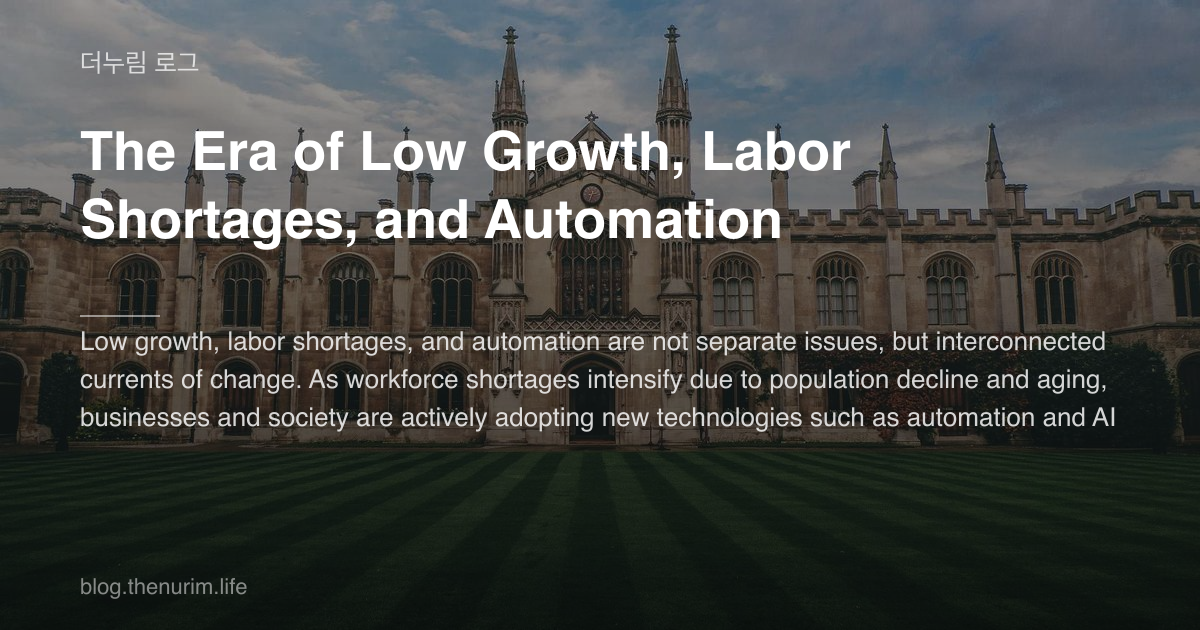
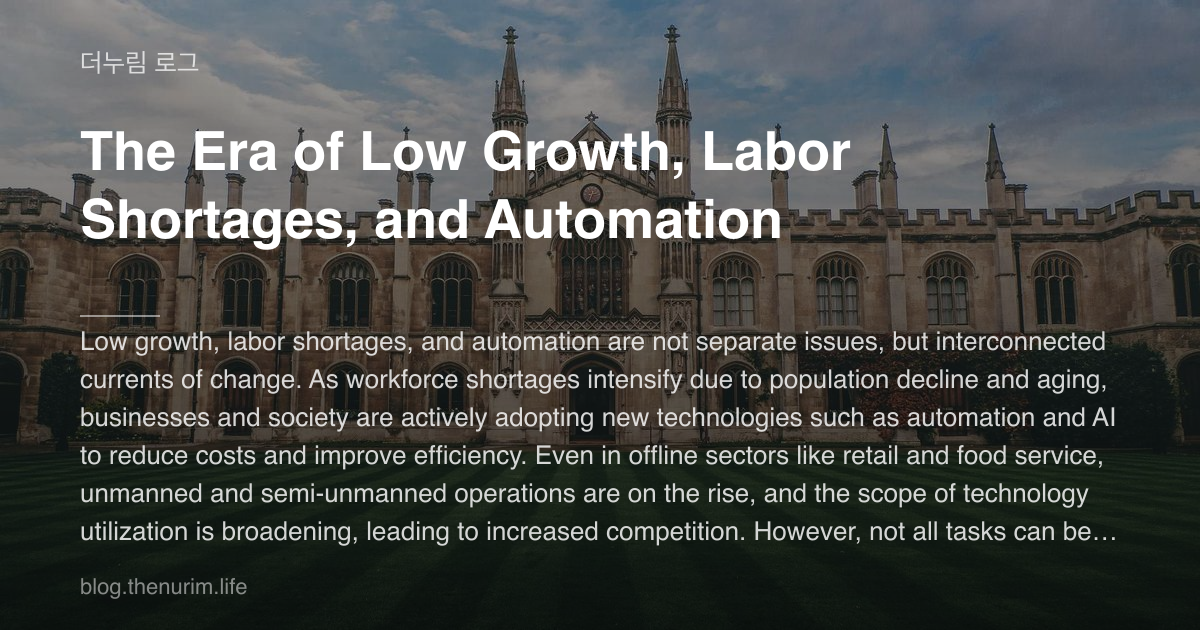
fix: preview image에 요약 글 더 표시.

Changed region(s): [[0.0617, 0.6937, 0.925, 0.8746]]

diff --git a/scripts/generate-og-images.js b/scripts/generate-og-images.js
@@ -129,12 +129,25 @@ async function generateOGImage(slug, lang, title, summary) {
   if (summary) {
     ctx.fillStyle = 'rgba(255,255,255,0.82)';
     ctx.font = `26px sans-serif`;
-    const summaryLines = wrapText(ctx, summary, CONTENT_WIDTH).slice(0, 3);
-    for (const line of summaryLines) {
-      if (y > OG_HEIGHT - 50) break;
-      ctx.fillText(line, PADDING, y);
+    const MAX_LINES = 6;
+    const allLines = wrapText(ctx, summary, CONTENT_WIDTH);
+    const summaryLines = allLines.slice(0, MAX_LINES);
+    const needsEllipsis = allLines.length > MAX_LINES;
+    summaryLines.forEach((line, i) => {
+      if (y > OG_HEIGHT - 50) return;
+      const isLast = i === summaryLines.length - 1;
+      if (isLast && needsEllipsis) {
+        // 말줄임표가 들어갈 자리 확보 후 글자 단위로 자르기
+        let truncated = line;
+        while (truncated.length > 0 && ctx.measureText(truncated + '…').width > CONTENT_WIDTH) {
+          truncated = truncated.slice(0, -1);
+        }
+        ctx.fillText(truncated + '…', PADDING, y);
+      } else {
+        ctx.fillText(line, PADDING, y);
+      }
       y += 38;
-    }
+    });
   }
 
   // 하단 URL
